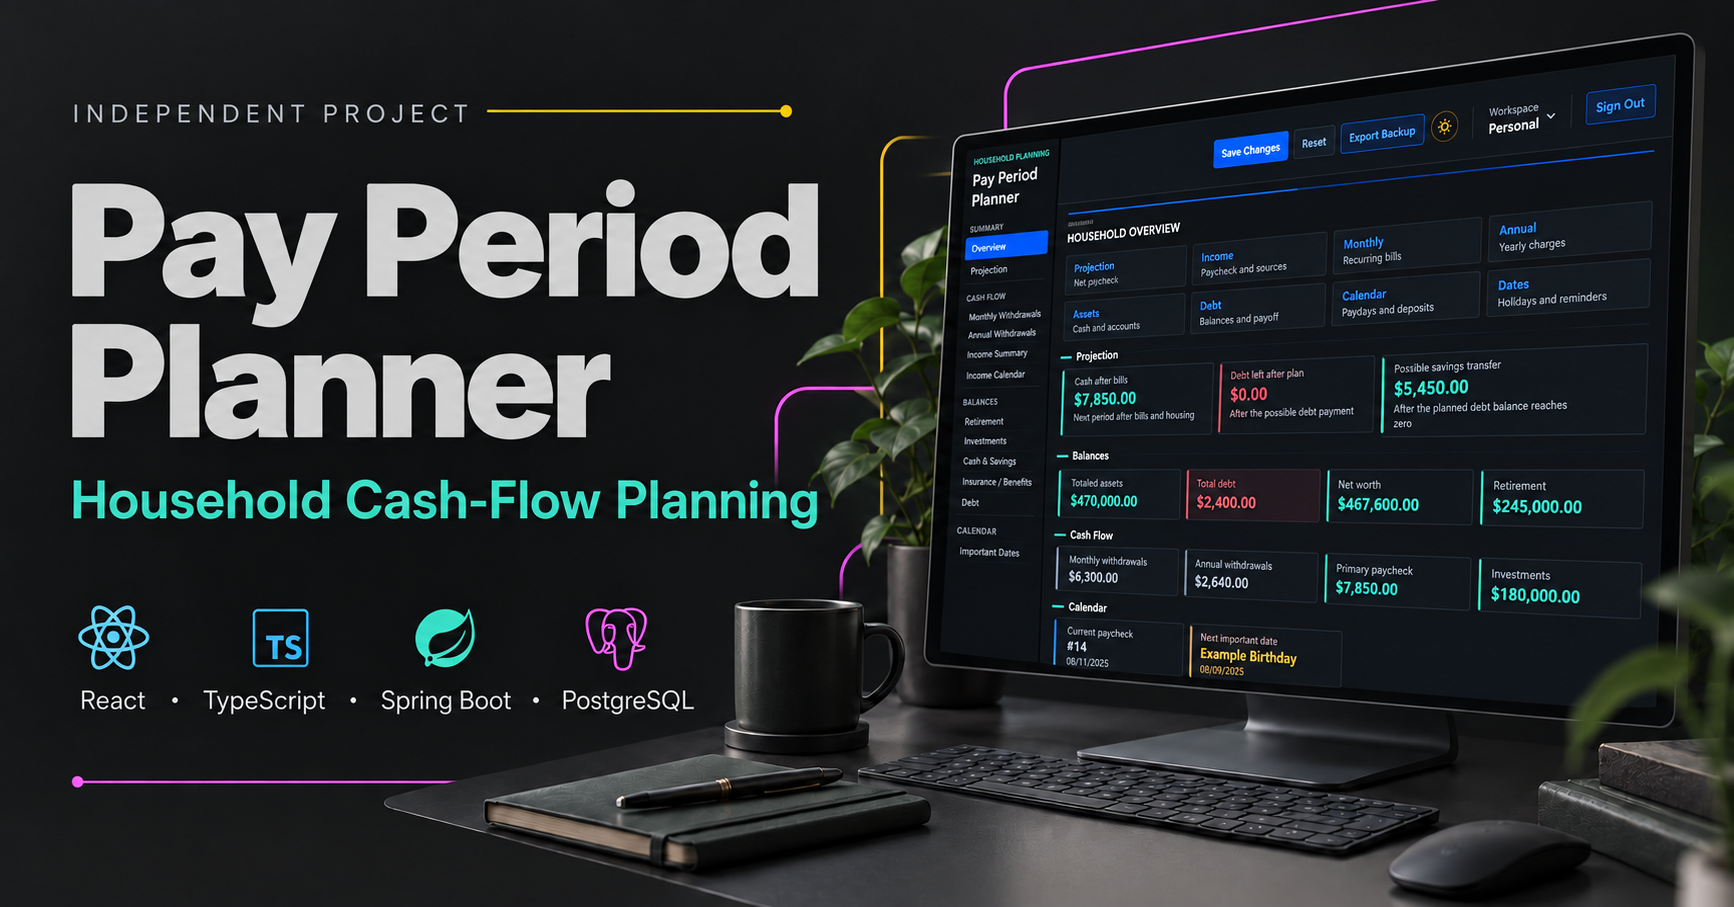
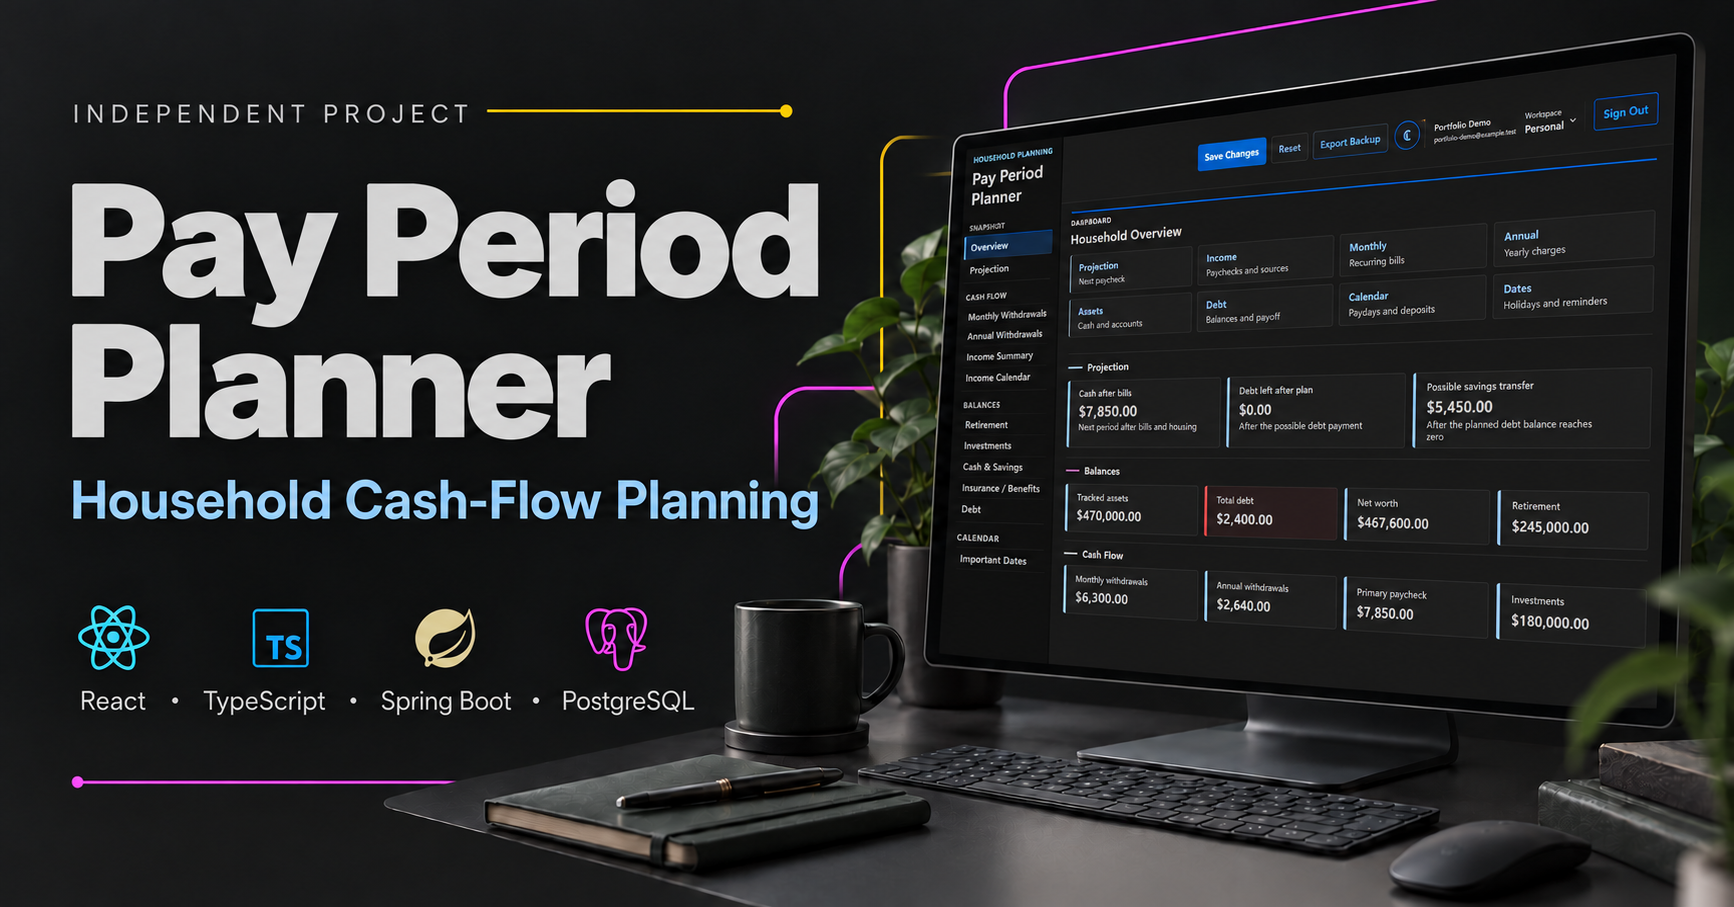
Replace green UI accents with neutral Dark Modern blue (#114)

diff --git a/frontend/src/theme.css b/frontend/src/theme.css
@@ -1,21 +1,21 @@
 :root {
   color-scheme: light;
   --surface: #ffffff;
-  --surface-soft: #f3f6f4;
+  --surface-soft: #f3f3f3;
   --surface-raised: #ffffff;
-  --text: #101412;
-  --text-muted: #4d5751;
-  --border: #d5dcd7;
-  --border-strong: #aeb8b1;
-  --primary: #2456d8;
-  --primary-strong: #193ea1;
-  --primary-soft: #e7edff;
-  --link: #193ea1;
+  --text: #1f1f1f;
+  --text-muted: #555555;
+  --border: #d5d5d5;
+  --border-strong: #aeaeae;
+  --primary: #0078d4;
+  --primary-strong: #0069b9;
+  --primary-soft: #e7f1fa;
+  --link: #0069b9;
   --on-primary: #ffffff;
-  --positive: #176146;
-  --positive-strong: #104833;
-  --positive-soft: #e2f0e8;
-  --positive-border: #a9d2bd;
+  --positive: #0069b9;
+  --positive-strong: #005a9e;
+  --positive-soft: #e7f1fa;
+  --positive-border: #9cdcfe;
   --warning: #8a5a00;
   --warning-strong: #67420e;
   --warning-soft: #fff4cf;
@@ -26,16 +26,16 @@
   --on-danger: #ffffff;
   --danger-border: #e8b8b0;
   --focus: #d58a00;
-  --rail-surface: #111613;
-  --rail-text: #f7faf7;
-  --rail-muted: #aeb8b1;
-  --rail-rule: #333b36;
-  --rail-accent: #8fd9b7;
-  --rail-selection: #1b2a55;
-  --rail-selection-text: #b3c2ff;
-  --overlay: rgb(16 20 18 / 52%);
-  --shadow-soft: rgb(16 20 18 / 10%);
-  --shadow-strong: rgb(16 20 18 / 24%);
+  --rail-surface: #181818;
+  --rail-text: #cccccc;
+  --rail-muted: #aeaeae;
+  --rail-rule: #454545;
+  --rail-accent: #9cdcfe;
+  --rail-selection: #203448;
+  --rail-selection-text: #9cdcfe;
+  --overlay: rgb(0 0 0 / 52%);
+  --shadow-soft: rgb(0 0 0 / 10%);
+  --shadow-strong: rgb(0 0 0 / 24%);
 }
 
 html[data-theme='dark'] {
@@ -52,10 +52,10 @@ html[data-theme='dark'] {
   --primary-soft: #203448;
   --link: #9cdcfe;
   --on-primary: #ffffff;
-  --positive: #4ec9b0;
-  --positive-strong: #b5cea8;
-  --positive-soft: #20352f;
-  --positive-border: #2ea043;
+  --positive: #9cdcfe;
+  --positive-strong: #9cdcfe;
+  --positive-soft: #203448;
+  --positive-border: #569cd6;
   --warning: #dcdcaa;
   --warning-strong: #ce9178;
   --warning-soft: #383426;
@@ -70,7 +70,7 @@ html[data-theme='dark'] {
   --rail-text: #cccccc;
   --rail-muted: #c8c8c8;
   --rail-rule: #454545;
-  --rail-accent: #4ec9b0;
+  --rail-accent: #9cdcfe;
   --rail-selection: #203448;
   --rail-selection-text: #9cdcfe;
   --overlay: rgb(0 0 0 / 68%);

diff --git a/frontend/src/features/financials/FinancialsPage.css b/frontend/src/features/financials/FinancialsPage.css
@@ -1819,7 +1819,7 @@ tr.projection-row.neutral td {
 
 /* Syntax colors distinguish overview sections without changing financial status meaning. */
 html[data-theme='dark'] .overview-group:nth-of-type(4n + 1) h2::before {
-  background: #4ec9b0;
+  background: #9cdcfe;
 }
 html[data-theme='dark'] .overview-group:nth-of-type(4n + 2) h2::before {
   background: #c586c0;
